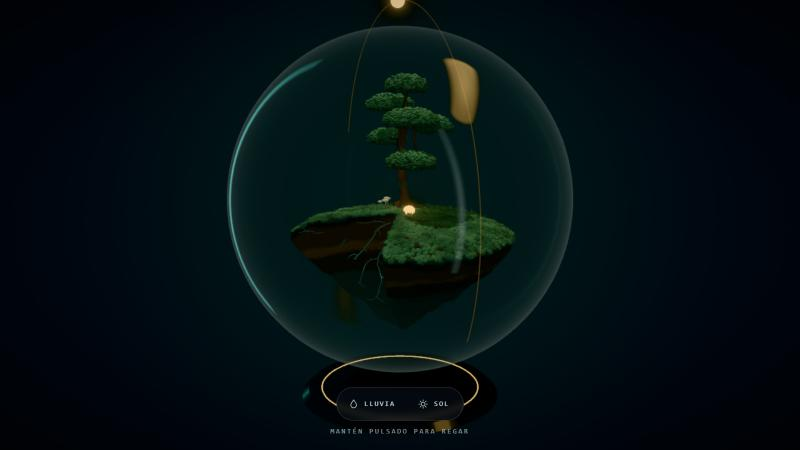
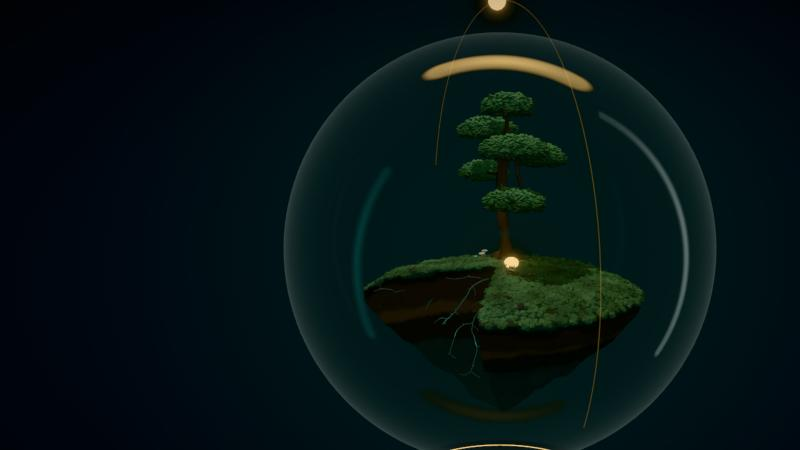
feat: viento en la copa y estudio de reflejos que gira con la cámara
- Follaje: vaivén lento más ráfaga por mechón y posición, más lejos del
  tronco; arrecia con la lluvia (uWind). La sombra se mece igual.
- Cristal: los softboxes del reflejo giran con el azimut de la cámara; la
  media luna enmarca el borde superior desde cualquier lado (capturas
  lateral y superior antes/después). La luz de la isla sigue fija.
- docs 02/04/06

Changed region(s): [[0.2812, 0.0, 0.9062, 1.0], [0.4062, 0.2178, 0.4375, 0.28], [0.5938, 0.84, 0.625, 0.8711]]

diff --git a/src/experience/world/GlassSphere.tsx b/src/experience/world/GlassSphere.tsx
@@ -11,6 +11,7 @@ import {
   SphereGeometry,
   Vector3,
   Vector4,
+  type Camera,
   type Side,
 } from 'three'
 import { glassTuning } from '../../config/lookdev.ts'
@@ -26,6 +27,8 @@ import fragmentShader from '../../shaders/glass/glass.frag?raw'
 
 /** Debe coincidir con MAX_SOFTBOXES en glass.frag. */
 const MAX_SOFTBOXES = 4
+const UP = new Vector3(0, 1, 0)
+let lastAzimuth = Number.NaN
 
 /** Uniforms comunes a la cara delantera y la trasera (mismos objetos, se mutan una vez). */
 function createSharedUniforms() {
@@ -57,6 +60,12 @@ function createSharedUniforms() {
   }
 
   return {
+    /** Orientación del estudio en reposo (cámara en +z); se gira con la cámara cada frame. */
+    studioBase: {
+      dirs: dirs.map((v) => v.clone()),
+      tangents: tangents.map((v) => v.clone()),
+      bitangents: bitangents.map((v) => v.clone()),
+    },
     uSoftboxDir: { value: dirs },
     uSoftboxTangent: { value: tangents },
     uSoftboxBitangent: { value: bitangents },
@@ -76,10 +85,13 @@ type SharedUniforms = ReturnType<typeof createSharedUniforms>
 
 function createGlassMaterial(shared: SharedUniforms, side: Side, faceFactor: number) {
   const uFaceFactor = { value: faceFactor }
+  // `studioBase` no es un uniform: se queda fuera del material.
+  const { studioBase, ...uniforms } = shared
+  void studioBase
   const material = new ShaderMaterial({
     vertexShader,
     fragmentShader,
-    uniforms: { ...shared, uFaceFactor },
+    uniforms: { ...uniforms, uFaceFactor },
     side,
     transparent: true,
     depthWrite: false,
@@ -106,7 +118,21 @@ type Glass = ReturnType<typeof createGlass>
  * Vuelca `glassTuning` y el momento del ciclo en los uniforms (se llama cada
  * frame; no asigna memoria). De noche, el estudio se apaga y los reflejos bajan.
  */
-function syncGlassUniforms({ shared, back }: Glass) {
+function syncGlassUniforms({ shared, back }: Glass, camera: Camera) {
+  // El estudio de reflejos gira con la cámara (solo en azimut): la media luna
+  // enmarca el cristal desde cualquier lado, como en una sesión de producto en la
+  // que la luz se recoloca con la cámara. La iluminación de la isla (Lightformers
+  // y luz principal) sigue fija en el mundo: las sombras no giran al orbitar.
+  const azimuth = Math.atan2(camera.position.x, camera.position.z)
+  if (azimuth !== lastAzimuth) {
+    lastAzimuth = azimuth
+    const { dirs, tangents, bitangents } = shared.studioBase
+    for (let i = 0; i < MAX_SOFTBOXES; i++) {
+      shared.uSoftboxDir.value[i]!.copy(dirs[i]!).applyAxisAngle(UP, azimuth)
+      shared.uSoftboxTangent.value[i]!.copy(tangents[i]!).applyAxisAngle(UP, azimuth)
+      shared.uSoftboxBitangent.value[i]!.copy(bitangents[i]!).applyAxisAngle(UP, azimuth)
+    }
+  }
   shared.uF0.value = glassTuning.f0
   shared.uReflection.value = glassTuning.reflection * currentLook().reflection
   shared.uRimStrength.value = glassTuning.rimStrength
@@ -135,7 +161,7 @@ export function GlassSphere() {
   const glass = useMemo(() => createGlass(), [])
   useEffect(() => () => geometry.dispose(), [geometry])
   useEffect(() => () => disposeGlass(glass), [glass])
-  useFrame(() => syncGlassUniforms(glass))
+  useFrame(({ camera }) => syncGlassUniforms(glass, camera))
 
   return (
     <>

diff --git a/src/experience/world/LifeTree.tsx b/src/experience/world/LifeTree.tsx
@@ -31,6 +31,9 @@ const BARK_FLUTES = { count: 5, depth: 0.14, minRadius: 0.012, twist: 9 }
 const treeStart = TREE.graph.node(0).distance
 const growthUniforms = {
   uGrowth: ecoUniforms.uGrowth,
+  // Viento del follaje (también en su material de sombra).
+  uTime: ecoUniforms.uTime,
+  uWind: ecoUniforms.uWind,
   uTreeStart: { value: treeStart },
   uTreeLength: { value: Math.max(...TREE.graph.nodes.map((n) => n.distance)) - treeStart },
 }
@@ -45,7 +48,7 @@ const growthUniforms = {
  *    cuidarlo, las ramas se alargan y las nubes se llenan mechón a mechón
  *    (`uGrowth`). Las sombras crecen igual: materiales de sombra con el mismo
  *    parche de vértice. Seca, la copa pierde el verde (`uWilt`).
- * El viento llega en la jornada 8.
+ *  - Jornada 8: la copa se mece con el viento (`uWind`, más con lluvia).
  */
 function createLifeTree(tubeSegments: number, tufts: number) {
   const barkUniforms = {

diff --git a/src/experience/signals.ts b/src/experience/signals.ts
@@ -75,6 +75,8 @@ export const ecoUniforms = {
   uFireflies: { value: 0 },
   /** Sincronía (0 → 1 → 0): las luciérnagas parpadean al unísono. */
   uSync: { value: 0 },
+  /** Viento en la copa: brisa constante que arrecia con la lluvia. */
+  uWind: { value: 0.5 },
 }
 
 const smoothstep = (a: number, b: number, x: number) => {
@@ -120,4 +122,5 @@ export function updateSignals(delta: number) {
   easing.damp(ecoUniforms.uMushroomGlow, 'value', 2.2 * visuals.brilloHongos, 1, delta)
   easing.damp(ecoUniforms.uFireflies, 'value', visuals.luciernagas, 2, delta)
   easing.damp(ecoUniforms.uSync, 'value', visuals.sincronia, 0.5, delta)
+  easing.damp(ecoUniforms.uWind, 'value', 0.5 + 0.8 * visuals.lluvia, 2, delta)
 }

diff --git a/docs/04-arquitectura.md b/docs/04-arquitectura.md
@@ -133,7 +133,7 @@ Lighting ◀── engine.state.ciclo (acción `sol`: lo controla el visitante, 
 
 **Interacción (jornada 7):** `experience/interaction/Gestures.tsx` escucha el lienzo (pulsación larga > 400 ms con < 8 px de movimiento) y la tecla R; `ui/ExperienceControls.tsx` es la cápsula con la lluvia (mantener; espacio/Intro con el foco). Todos llaman a `empezarLluvia(fuente)`/`pararLluvia(fuente)` del store, que **cuenta las fuentes** (`control`, `gesto`, `tecla`): llueve mientras quede alguna activa, y parar una que no lo estaba no hace nada. El motor emite `encharcado` cuando el exceso de agua se sostiene; el store lo refleja y la cápsula muestra "La tierra necesita descansar".
 
-**Sol (jornada 8):** `config/sunControl.ts` comparte el lenguaje del control (píxeles por ciclo, paso de flecha, arco del orbe). El store distingue `sol(ciclo)` (absoluto: URL, panel) de `moverSol(delta)` (visitante: marca `haMovidoSol` y solo actúa tras el primer brote). `interaction/SunHandle.tsx` es el orbe: arrastre horizontal relativo (no por ángulo en pantalla, que desde una cámara lateral sería ambiguo); mientras se arrastra, `CameraControls` se desactiva. Los hongos y las luciérnagas leen `ecoUniforms` (`uMushrooms`, `uMushroomGlow`, `uFireflies`, `uSync`); las luciérnagas vuelan en el shader (suma de senos) y su reparto sale de `generators/fireflies.ts`; los hongos, de `generators/mushrooms.ts` (geometría de revolución por perfil, dos `InstancedMesh`).
+**Sol (jornada 8):** `config/sunControl.ts` comparte el lenguaje del control (píxeles por ciclo, paso de flecha, arco del orbe). El store distingue `sol(ciclo)` (absoluto: URL, panel) de `moverSol(delta)` (visitante: marca `haMovidoSol` y solo actúa tras el primer brote). `interaction/SunHandle.tsx` es el orbe: arrastre horizontal relativo (no por ángulo en pantalla, que desde una cámara lateral sería ambiguo); mientras se arrastra, `CameraControls` se desactiva. El cristal gira sus softboxes de reflejo con el azimut de la cámara (`syncGlassUniforms`, sin asignar memoria); los Lightformers del entorno no. Los hongos y las luciérnagas leen `ecoUniforms` (`uMushrooms`, `uMushroomGlow`, `uFireflies`, `uSync`); las luciérnagas vuelan en el shader (suma de senos) y su reparto sale de `generators/fireflies.ts`; los hongos, de `generators/mushrooms.ts` (geometría de revolución por perfil, dos `InstancedMesh`).
 
 Los parches GLSL viven en `shaders/life/` y `shaders/roots/`; `experience/world/materialPatch.ts` los inserta en `MeshStandardMaterial` por secciones (`//#color`, `//#emissive`…). Atributos por vértice: `pathDistance` (no `distance`: es una función de GLSL), `thickness` y `nodeValue` (en las raíces, el **carácter** de cada nodo; en el follaje, cada mechón hereda la distancia de su rama más cercana). El reloj del despertar sale del motor (`despertadoEn`): es determinista y un mundo recuperado no se vuelve a encender.
 

diff --git a/docs/06-roadmap.md b/docs/06-roadmap.md
@@ -24,7 +24,7 @@
 | 6 | 01 · Awakening ✅ | Tocar la semilla (área de toque de ~45 px en móvil, botón para teclado), encendido por la red con chispa Sol, pulsos con `temperament` como atributo por vértice, luz bajo la corteza, la copa se enciende nube a nube, cartela de entrada |
 | 7 | 02 · Nourish ✅ | `RainSystem` (instanced, en shader), charcos con ondas solo al encharcar, crecimiento del árbol por `pathDistance` (`uGrowth`, sombras incluidas), suelo y musgo según humedad y marchitez, brotes desde la semilla, cápsula con la lluvia (mantener), pulsación larga y tecla R |
 | 7b | Revisión de Nourish ✅ | Pasada acotada tras dos revisiones externas (capturas `jornada-07b-*`): `smoothstep` de la corteza con bordes válidos; fuentes de lluvia contadas (control, gesto, tecla) para que no se pisen; aviso de exceso de agua (`encharcado` en el motor → "La tierra necesita descansar", tierra saturada y velo en los charcos); árbol seco con `GROWTH.bare` 0,6 (A/B 0,5 · 0,55 · 0,6 · 0,65) para que el despertar tenga copa que encender; lluvia más tenue de cerca; musgo de octaedros en media y baja (A/B a escala de móvil: −26 k triángulos sin diferencia visible) |
-| 8 | 03 · Transform ✅ | Ciclo completo con mediodía y atardecer (`timeOfDay`: la luz principal gira con `keyDirection`; contraluz naranja al atardecer), control del sol en la cápsula (arrastre horizontal, flechas), `SunHandle` (orbe arrastrable sobre un arco: Sol de día, luna Vida de noche), `Mushrooms` (lámparas junto al tronco y racimos que asoman con el exceso de agua; brillan de noche; sombras incluidas), `Fireflies` (vuelo y parpadeo en shader, al unísono en la Sincronía), cristal revisado desde tres cámaras (softbox principal más estrecho, F0 0,025). Capturas `jornada-08-*` |
+| 8 | 03 · Transform ✅ | Ciclo completo con mediodía y atardecer (`timeOfDay`: la luz principal gira con `keyDirection`; contraluz naranja al atardecer), control del sol en la cápsula (arrastre horizontal, flechas), `SunHandle` (orbe arrastrable sobre un arco: Sol de día, luna Vida de noche), `Mushrooms` (lámparas junto al tronco y racimos que asoman con el exceso de agua; brillan de noche; sombras incluidas), `Fireflies` (vuelo y parpadeo en shader, al unísono en la Sincronía), cristal revisado desde tres cámaras (softbox principal más estrecho, F0 0,025 y el estudio de reflejos gira con la cámara en azimut), viento en la copa. Capturas `jornada-08-*` |
 | 9 | 04 · Discover | Límites de cámara, raíces colgantes, `HiddenOrganisms`; reconsiderar DOF solo para primeros planos. **H2 · Vivo** |
 | 10 | 05 · Sincronía | Final, calibración del motor con 3 personas, audio ambiente, persistencia |
 | 11 | Rendimiento | Niveles de calidad medidos en dispositivos reales, táctil, accesibilidad, pérdida de contexto WebGL |

diff --git a/docs/02-direccion-de-arte.md b/docs/02-direccion-de-arte.md
@@ -93,7 +93,8 @@ Condensación: opcional, estilizada, solo en la parte superior y solo con humeda
 - **El sol se mueve**: control en la cápsula (aparece con el primer brote; arrastre horizontal, flechas con el foco) y un **orbe solar** sobre un arco alrededor del cristal, de la mañana (izquierda) al cenit y al atardecer (derecha); se arrastra igual. De noche el orbe es una luna tenue teñida de Vida. Sin números: el deslizador accesible describe el momento con palabras.
 - **Hongos:** lámparas altas en corona alrededor del tronco (casi siempre están) y racimos pequeños junto a las hondonadas que **asoman con el exceso de agua** (umbral por hongo): son la señal viva del desequilibrio, no decoración. Sombrero pálido (`organismos.hongo`); de noche brillan con Vida por las láminas, con una respiración lenta. Crecen desde el suelo con un pequeño rebote; las sombras crecen igual.
 - **Luciérnagas:** emergen poco a poco con la noche y la vitalidad; vuelo lento de suma de senos y parpadeo propio (la mayor parte del tiempo apagadas). En la Sincronía, la fase propia cede a una común.
-- **Cristal en exploración:** revisado desde tres cámaras (`general`, `lateral`, `superior`): el softbox principal se estrecha y pierde ganancia, y `f0` baja a 0,025 para que de lado o desde arriba no cruce la copa como una barra. La media luna frontal se conserva. Capturas `jornada-08-cristal-*`.
+- **Cristal en exploración:** revisado desde tres cámaras (`general`, `lateral`, `superior`). Estrechar el softbox principal y bajar `f0` a 0,025 no bastaba: de lado seguía siendo una mancha. Decisión: **el estudio de reflejos gira con la cámara en azimut** (como un fotógrafo que recoloca la luz con cada encuadre): la media luna enmarca siempre el borde superior y la tira de contraluz, el derecho. La iluminación de la isla (Lightformers, luz principal, sombras) sigue fija en el mundo. Capturas `jornada-08-cristal-*` (antes/después).
+- **Viento:** la copa se mece (vaivén lento más ráfaga fina, por mechón y por posición; más lejos del tronco, más), y arrecia con la lluvia. La sombra se mece igual (mismo parche en el material de sombra).
 
 ## Vegetación y organismos
 
